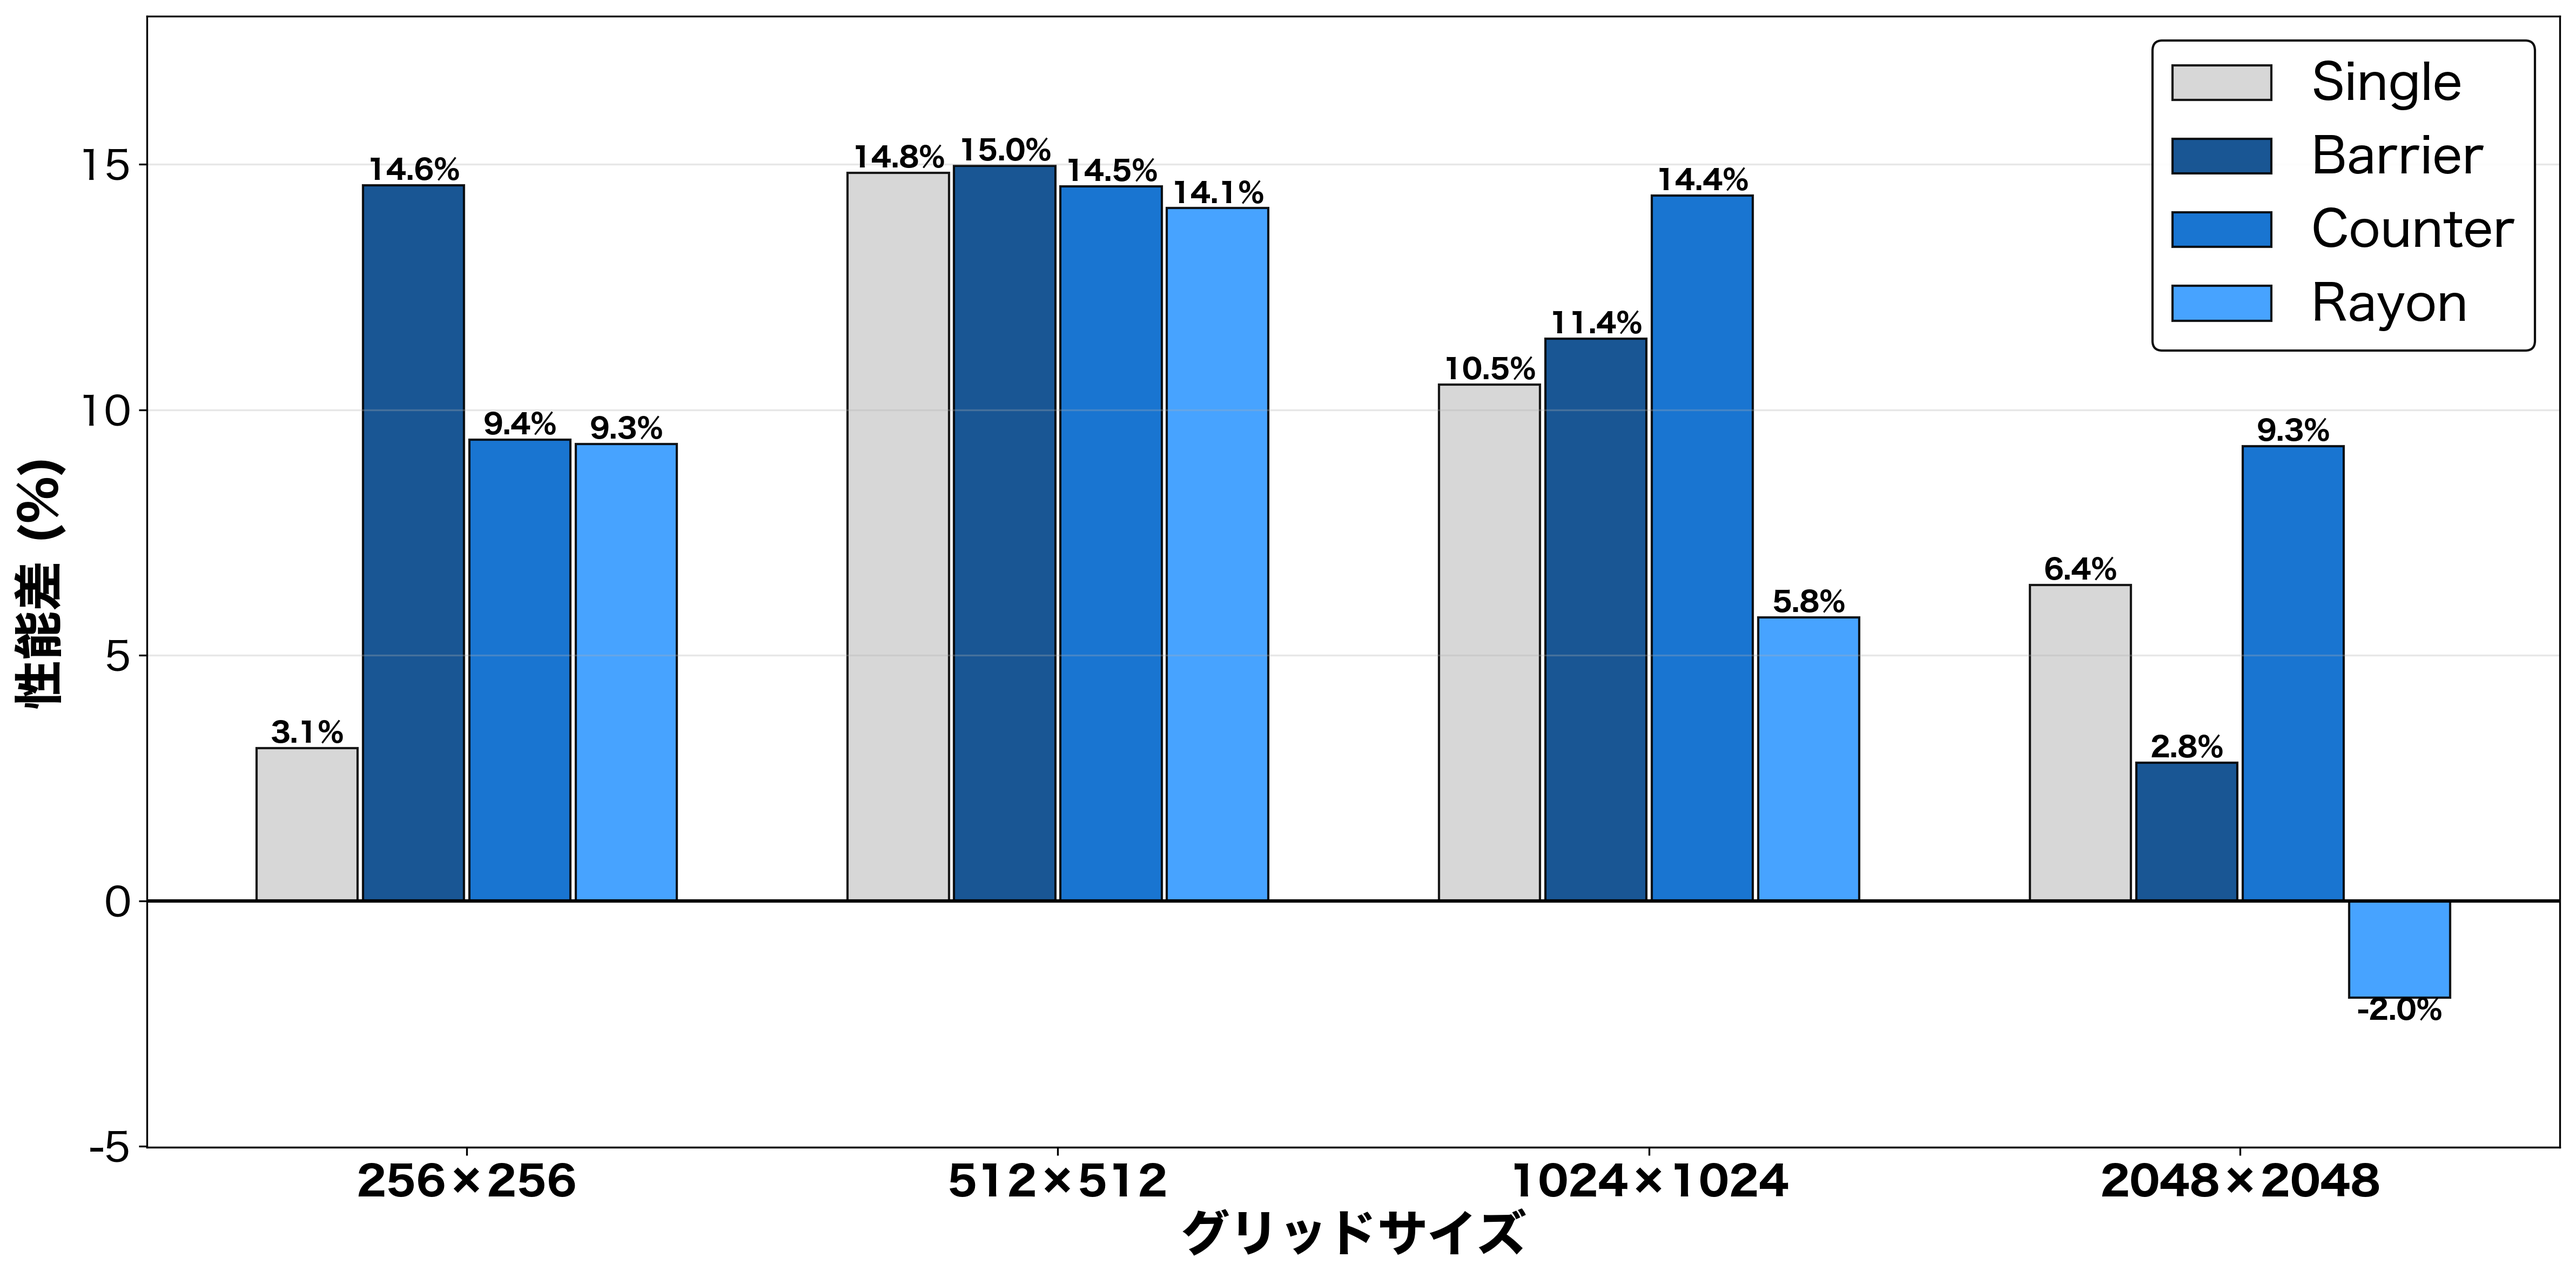
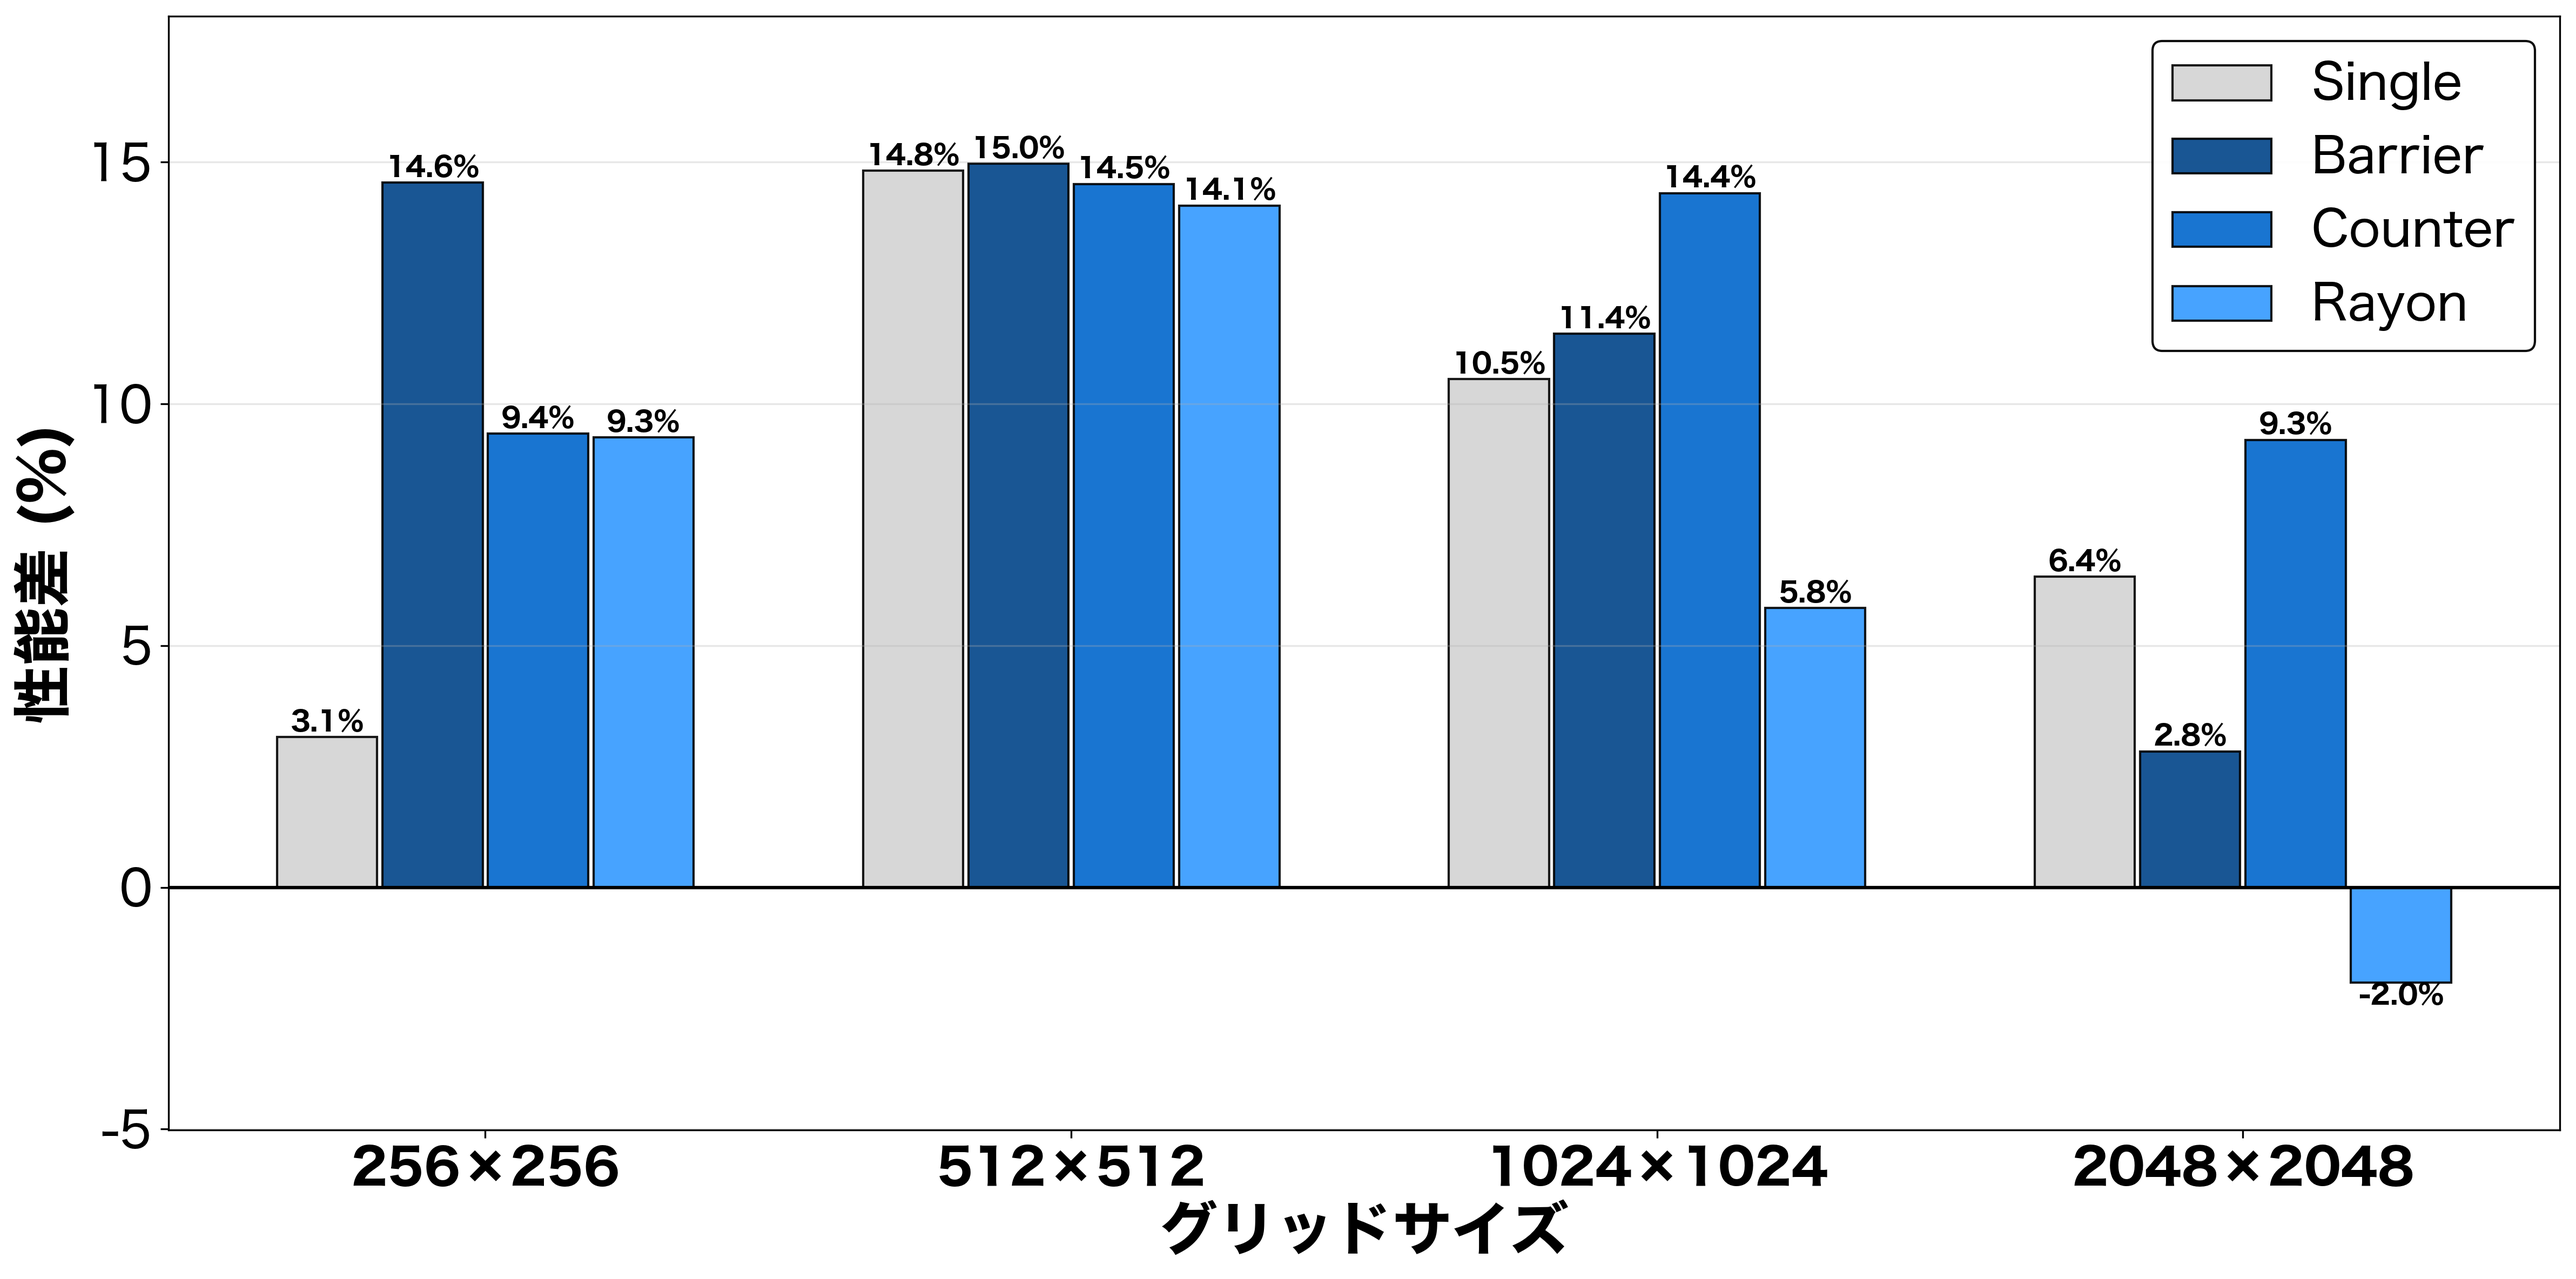
最終コミット

diff --git a/scripts/create_thesis_graphs.py b/scripts/create_thesis_graphs.py
@@ -8,6 +8,7 @@ prod_result.txtの結果から全ての有用なグラフを作成
 import matplotlib.pyplot as plt
 import numpy as np
 import os
+import json
 from matplotlib import rcParams
 
 # 日本語フォント設定（macOS/Linux）
@@ -81,6 +82,12 @@ result_path = os.path.join(project_root, 'prod_result.txt')
 
 # データを読み込み
 data = load_data(result_path)
+
+# 取得したデータを表示
+print("\n" + "="*30)
+print("LOADED DATA CONTENT:")
+print(json.dumps(data, indent=4, ensure_ascii=False))
+print("="*30 + "\n")
 
 # カラーマップ定義
 colors = {
@@ -512,11 +519,11 @@ def create_rust_safe_vs_unsafe_combined():
     ax.axhline(y=0, color='black', linestyle='-', linewidth=1.5)
 
     # 軸とラベルの設定
-    ax.set_xlabel('グリッドサイズ', fontsize=22, fontweight='bold')
-    ax.set_ylabel('性能差 (%)', fontsize=22, fontweight='bold')
+    ax.set_xlabel('グリッドサイズ', fontsize=26, fontweight='bold')
+    ax.set_ylabel('性能差 (%)', fontsize=26, fontweight='bold')
     ax.set_xticks(x)
-    ax.set_xticklabels(grid_sizes, fontsize=18, fontweight='bold')
-    ax.tick_params(axis='y', labelsize=18)
+    ax.set_xticklabels(grid_sizes, fontsize=22, fontweight='bold')
+    ax.tick_params(axis='y', labelsize=22)
     ax.grid(True, alpha=0.3, axis='y')
     ax.margins(y=0.18)
 
